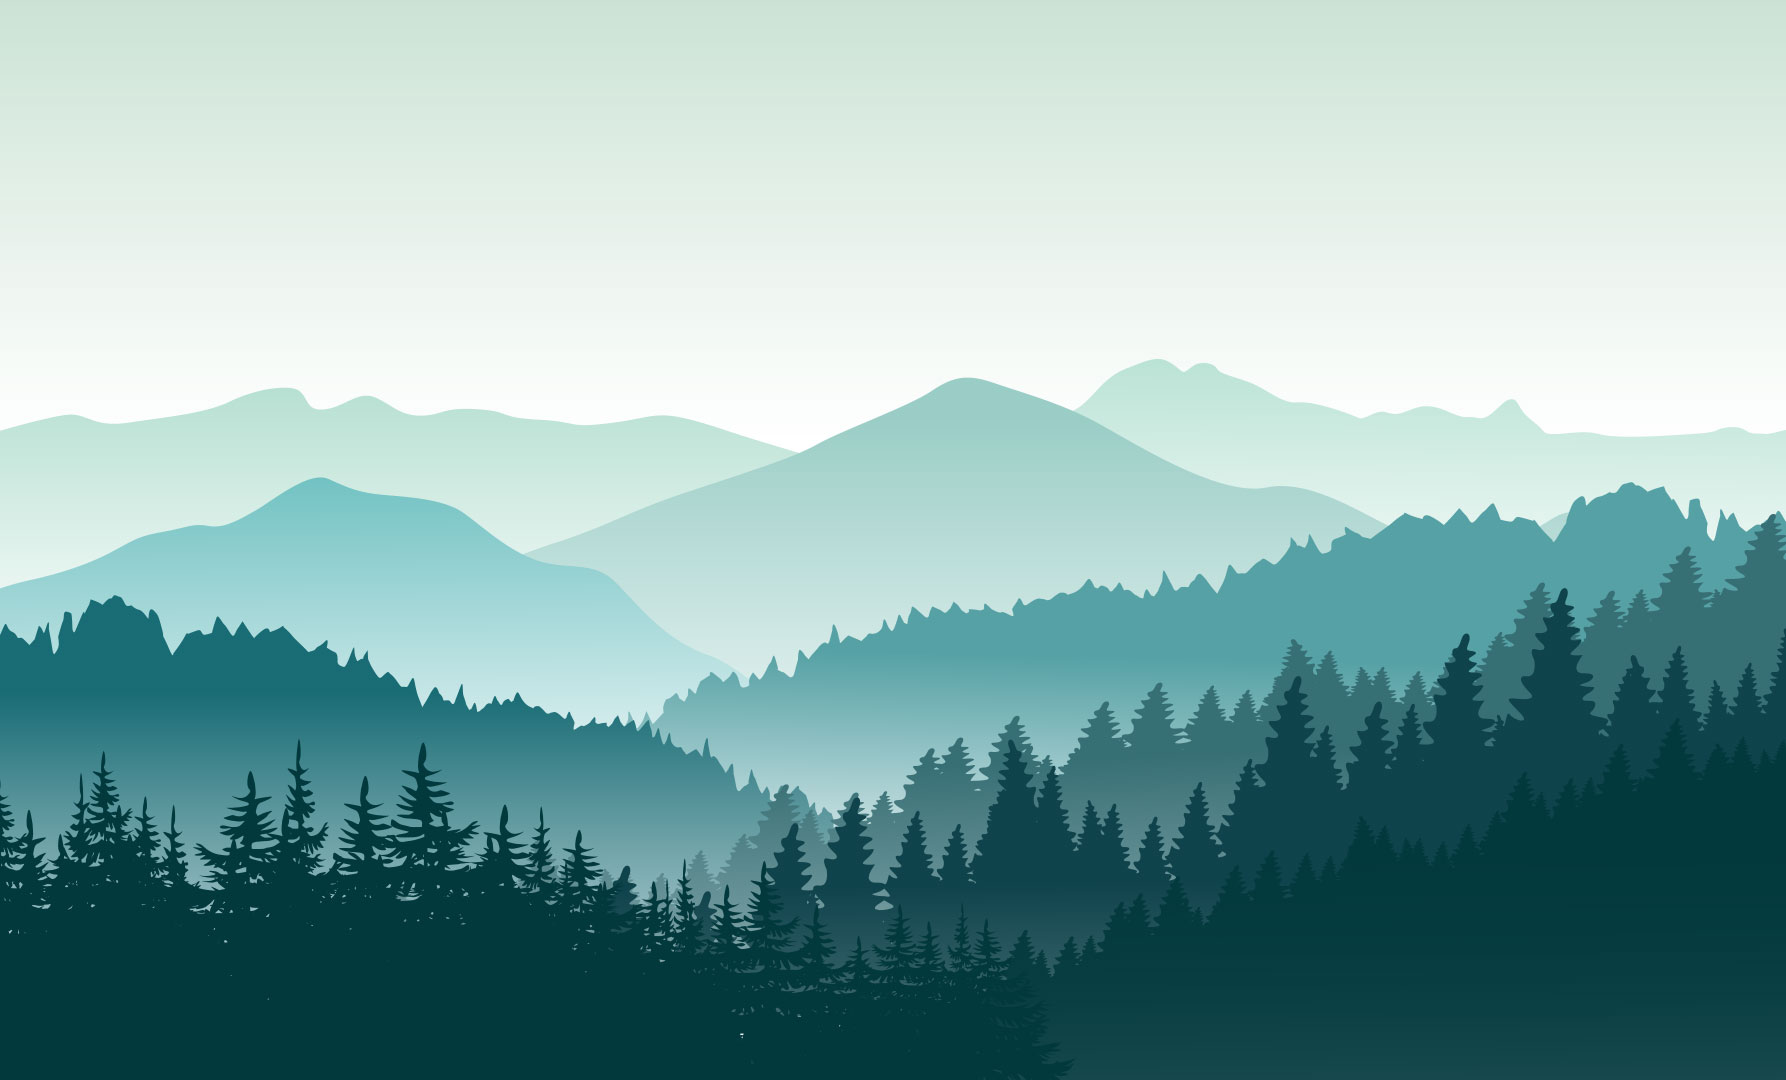
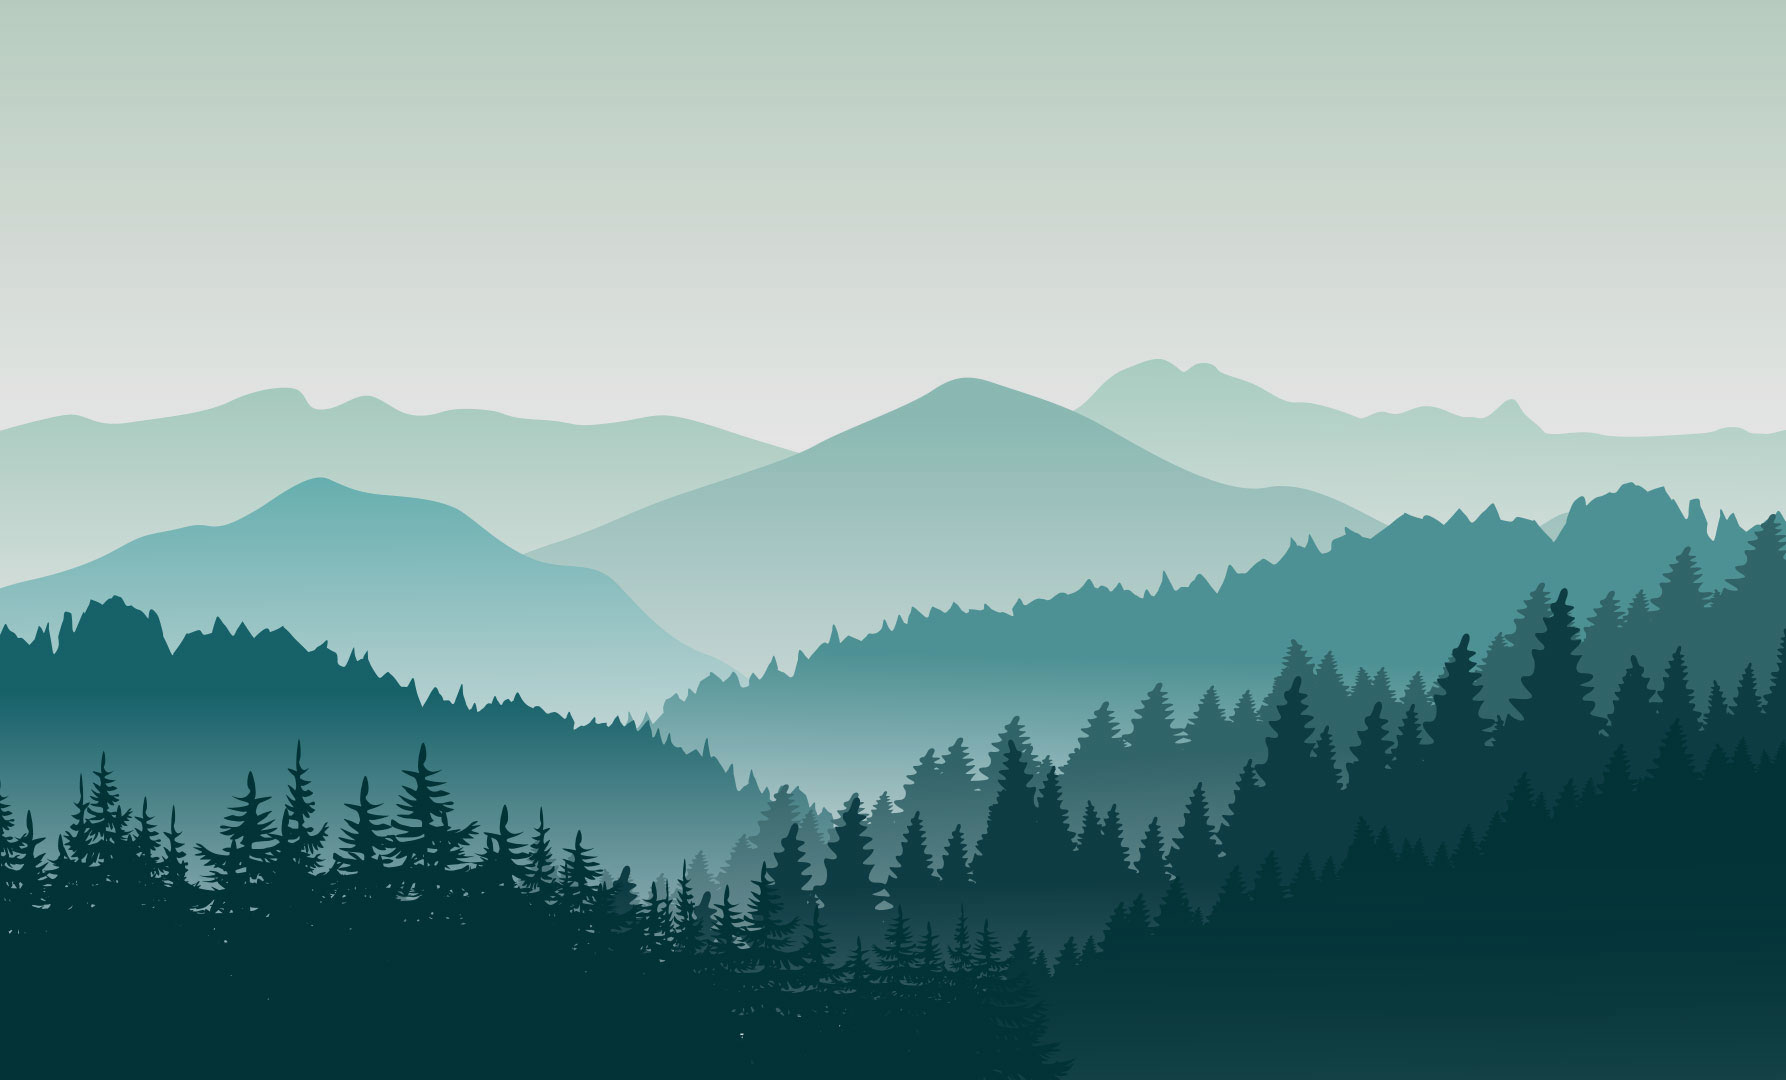
Fixes IE menu flex issue. Darkens teal-mountains picture.

diff --git a/assets/css/_sass/menu.scss b/assets/css/_sass/menu.scss
@@ -79,7 +79,7 @@
 Mobile Menu View Landscape
  **/
 
-@media only screen and (max-width: 767px) and (min-width: 500px) {
+@media only screen and (max-width: 768px) and (min-width: 500px) {
     .menu {
         ul {
             display: flex;
@@ -264,7 +264,7 @@ Mobile Menu View Landscape
 
 // Desktop only
 
-@media only screen and (min-width: 768px) {
+@media only screen and (min-width: 769px) {
     .navbar-custom {
         z-index: 200;
         position: fixed;
@@ -329,6 +329,7 @@ Mobile Menu View Landscape
     .menu {
         display: inline-flex;
         margin-right: 15px;
+        margin-left: auto;
         ul {
             display: -webkit-inline-box;
             display: -webkit-inline-flex;
